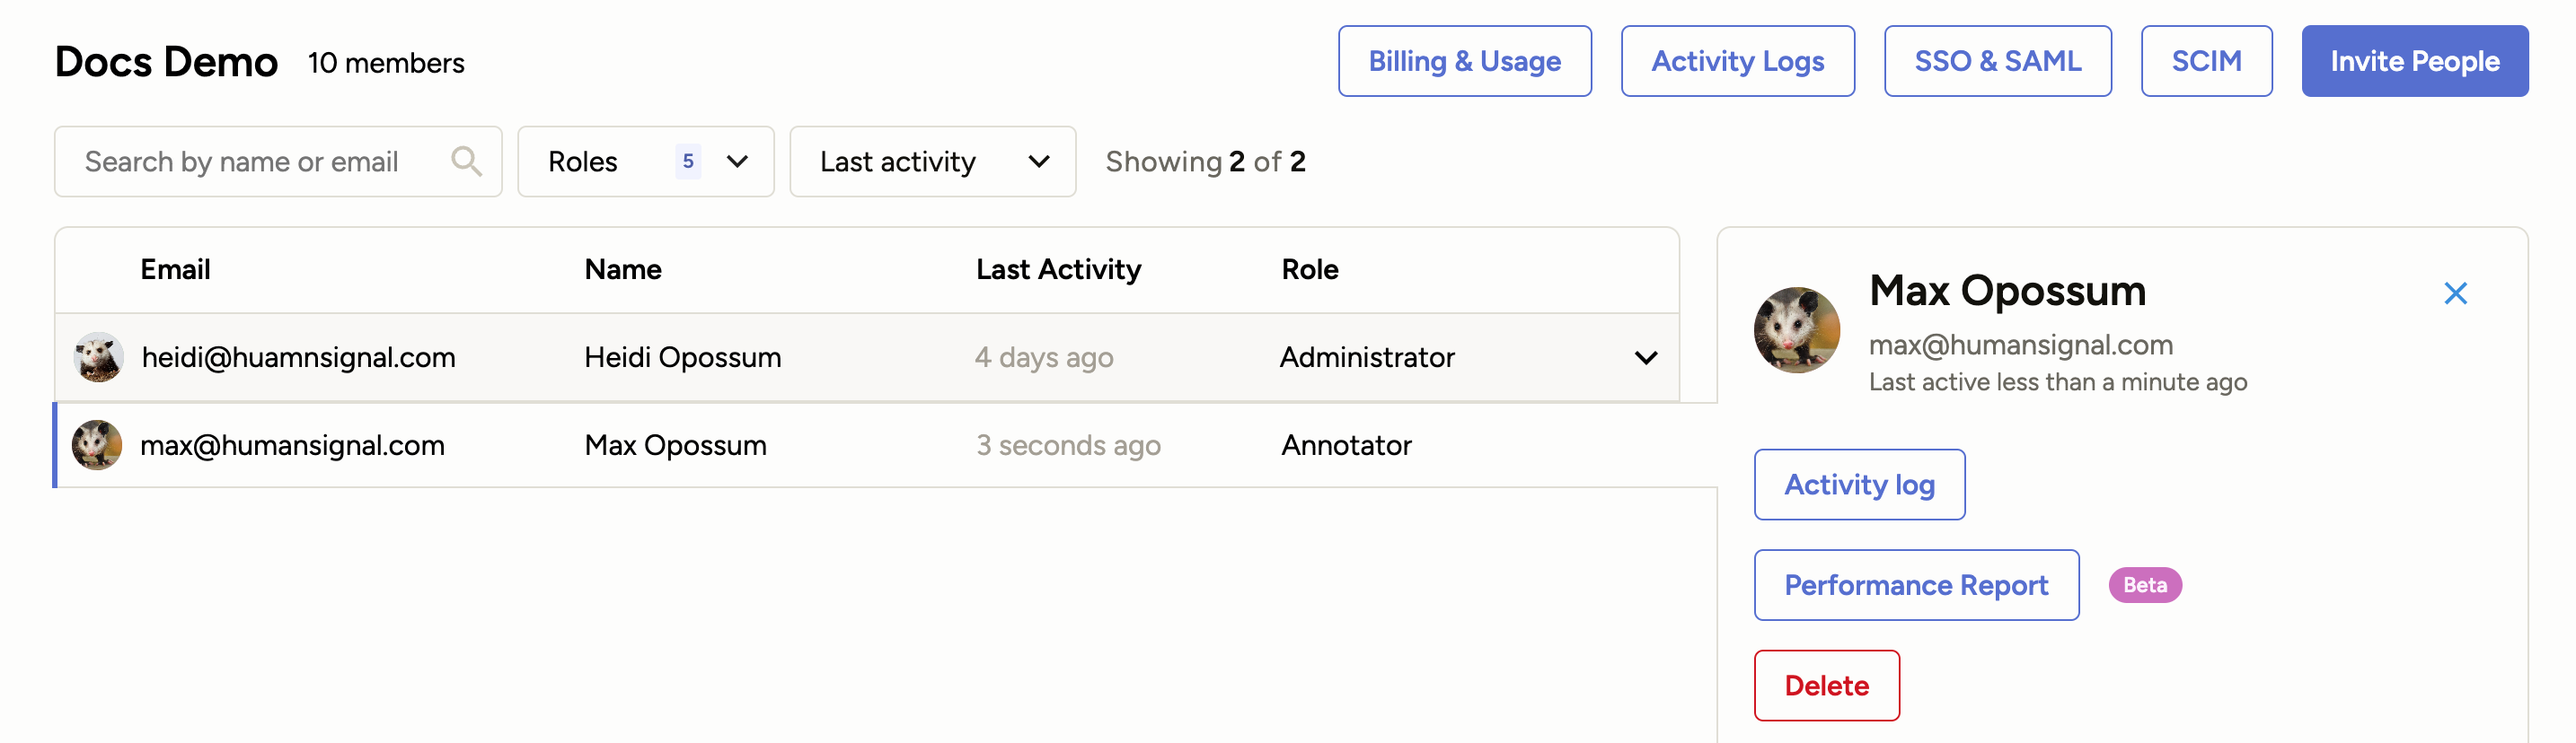
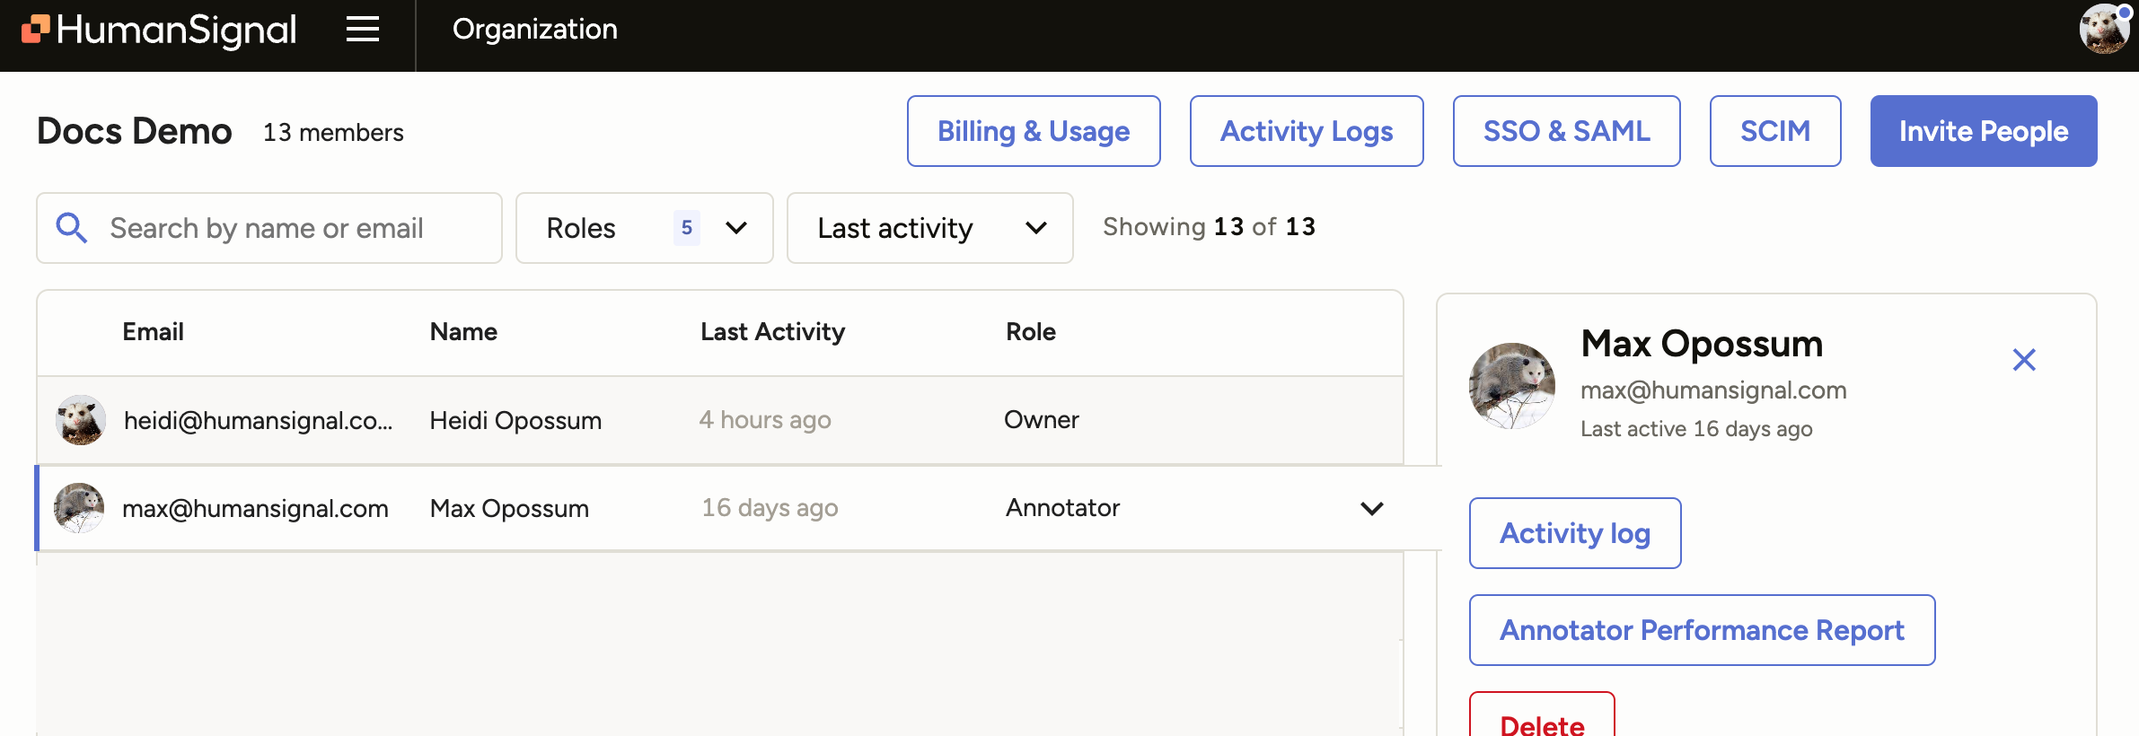
docs: DOC-267: Update the Annotator Performance Report page (#6654)

diff --git a/docs/source/guide/dashboard_annotator.md b/docs/source/guide/dashboard_annotator.md
@@ -1,10 +1,10 @@
 ---
-title: Annotator performance dashboard - Beta 🧪
+title: Annotator performance dashboard
 short: Annotator dashboard
 tier: enterprise
 type: guide
 order: 0
-order_enterprise: 70
+order_enterprise: 72
 meta_title: Annotator dashboard
 meta_description: Use annotator dashboards to track annotator work and progress. 
 section: "Project Management"
@@ -28,9 +28,19 @@ The dashboard is available from the Organization page, meaning that your user ro
 
 From the organization members list, select the user you want to view. Annotator performance reports are available for users in all roles, not just the Annotator role. 
 
-With the user selected, click **Performance Report** on the right. 
+With the user selected, click **Annotator Performance Report** on the right. 
 
 ![Screenshot of Performance Report button](/images/project/user_report.png)
+
+## Export data
+
+You can use the **Export** drop-down to to export the following:
+
+* **Report** - Download the information in the dashboard as CSV or JSON. 
+
+* **Timeline** - Download a detailed timeline of all the user's annotation actions within the time frame, including when the began and submitted each annotation. 
+
+* **Comments Received** - Download a CSV file with all of the comments that other users have left on the user's annotations. 
 
 ## Metrics
 
@@ -47,15 +57,14 @@ The metrics are calculated from the following data:
 
 ### Performance summaries
 
-![Screenshot of annotator dashboard summaries](/images/project/annotator_dashboard_summary.png)
-
 | Metric | Calculation | Description | 
 | --- | --- | --- |
-| **Total Time** | Sum of `lead_times` | The total time spent annotating during the selected time frame. This is calculated based on annotations that meet the criteria for **Submitted Annotations** (see below). <br /><br />The total time does not include time spent on annotations that have not been submitted and/or updated. For example, it does not include time spent on drafts or time spent on skipped annotations. <br /><br />However, if they return to an annotation draft or a previously skipped annotation, then their earlier time spent on the annotation is included when calculating their total annotation time.  | 
+| **Total Time** | Sum of `lead_times` | The total time spent annotating during the selected time frame. This is calculated based on annotations that meet the criteria for **Submitted Annotations** (see below). <br /><br />All annotations have a `lead_time`. The lead time reflects how much time a user spent labeling from the moment the task was opened until they click **Submit** or **Update**. This includes idle time. <br /><br />The total time does not include time spent on annotations that have not been submitted and/or updated. For example, it does not include time spent on drafts or time spent on skipped annotations. <br /><br />However, if they return to an annotation draft or a previously skipped annotation, then their earlier time spent on the annotation is included when calculating their total annotation time.  | 
 | **Submitted Annotations** | Sum of `submitted_or_reviewed` | The total number of annotations the user submitted during the selected time frame. <br /><br />This includes annotations that have been submitted and updated. <br /><br />It does not include annotations that have been skipped. It also does not include annotations that were submitted and have since been rejected by a reviewer. However, if the annotator updates a rejected annotation and that fix is then accepted by a reviewer, the corrected annotation is included within their Submitted Annotation count. <br /><br />Note that each annotation is only included in their submitted count once. Label Studio does not count the same annotation twice based if it is later updated. | 
 | **Total Time (Median)** | Sum of `submitted_or_reviewed` * the median of `lead_times` | The number of submitted annotations multiplied by their median annotation time. | 
 | **Time per Annotation (Median)** | Median of `lead_times` | The median time they spent on each submitted annotation. | 
 | **Time per Annotation (Average)** | Average of `lead_times` | The average time they spent on each submitted annotation. | 
+| **Performance Score** | Calculated from reviewer actions | The Performance Score reflects the overall performance of annotators in terms of review actions (**Accept**, **Reject**, **Fix+Accept**). <br /><br />The calculation is as follows:<ul><li>Each annotation review action (**Accept**, **Reject**, **Fix+Accept**) contributes to the score.</li><li>The score is calculated by summing the scores of all review actions and dividing by the total number of review actions. For example: </li><ul><li>If an annotation is rejected twice and then accepted once, the Performance Score would be (0 + 0 + 1) / 3 = 33%.</li><li>If an annotation is rejected once and then fixed+accepted with a score of 42%, the Performance Score would be (0 + 0.42) / 2 = 21%.</li></ul></ul> | 
 
 ### Graphs
 
